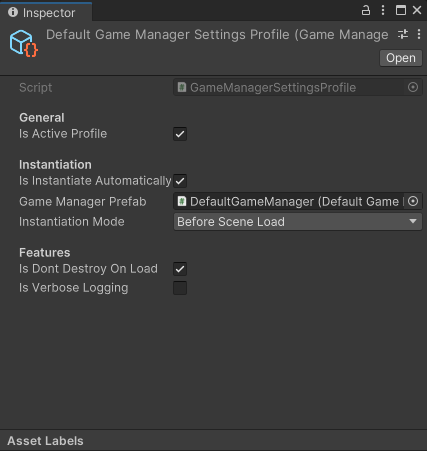
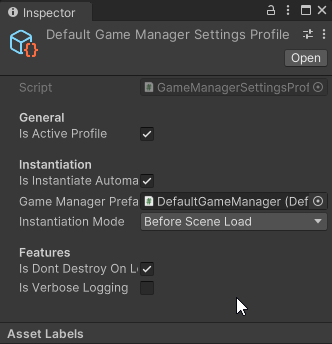
Update readme images

diff --git a/Packages/com.chark.game-management/Documentation~/README.md b/Packages/com.chark.game-management/Documentation~/README.md
@@ -39,13 +39,19 @@ This will import:
 - [Default Game Manager Prefab] - prefab which can be used as a template for your game manager prefab.
 - [Default Game Manager Settings Profile] - asset which defines how the [Default Game Manager] should load.
 
-After importing, open the [Game Manager Settings] asset (located at `Assets/Settings/GameManagerSettings.asset` by default) and add [Default Game Manager Settings Profile] to the **Profiles** field. Also make sure this profile is active.
+After importing, open the [Game Manager Settings] asset (located at `Assets/Settings/GameManagerSettings.asset` by default) and add [Default Game Manager Settings Profile] to the **Profiles** field. Also make sure this profile is active:
+
+<p align="center">
+  <img hspace="2%" src="game-manager-settings.png"/>
+</p>
 
 Run the game!
 
 ## Game Manager Settings
 
-[Game Manager Settings] asset will be created automatically for you when you install this package. The default location is at `Assets/Settings/GameManagerSettings.asset` but you can move it anywhere in your project. [Game Manager Settings] asset defines which [Game Manager] should load and how. If there are more than one profiles added to this asset, the first profile which is active will be used. If no profiles are active or the list is empty, a no-op default profile will be utilized.
+[Game Manager Settings] asset will be created automatically for you when you install this package. The default location is at `Assets/Settings/GameManagerSettings.asset` but you can move it anywhere in your project.
+
+[Game Manager Settings] asset defines which [Game Manager] should load and how. If there are more than one profiles added to this asset, the first profile which is active will be used. If no profiles are active or the list is empty, a no-op default profile will be utilized.
 
 When you create this asset for the first time, it will have no **Profiles** added. To override the defaults you'll need to define a custom [Game Manager Settings Profile] asset, configure it and add to this list. You can create [Game Manager Settings Profile] assets the following way:
 
@@ -53,8 +59,7 @@ When you create this asset for the first time, it will have no **Profiles** adde
 - Add it to the [Game Manager Settings] asset **Profiles** list.
 
 <p align="center">
-  <img hspace="2%" width="30%" src="game-manager-settings.png"/>
-  <img hspace="2%" width="30%" src="game-manager-settings-profile.png"/>
+  <img hspace="2%" src="game-manager-settings-profile.png"/>
 </p>
 
 Available properties for customization on [Game Manager Settings Profile]:
